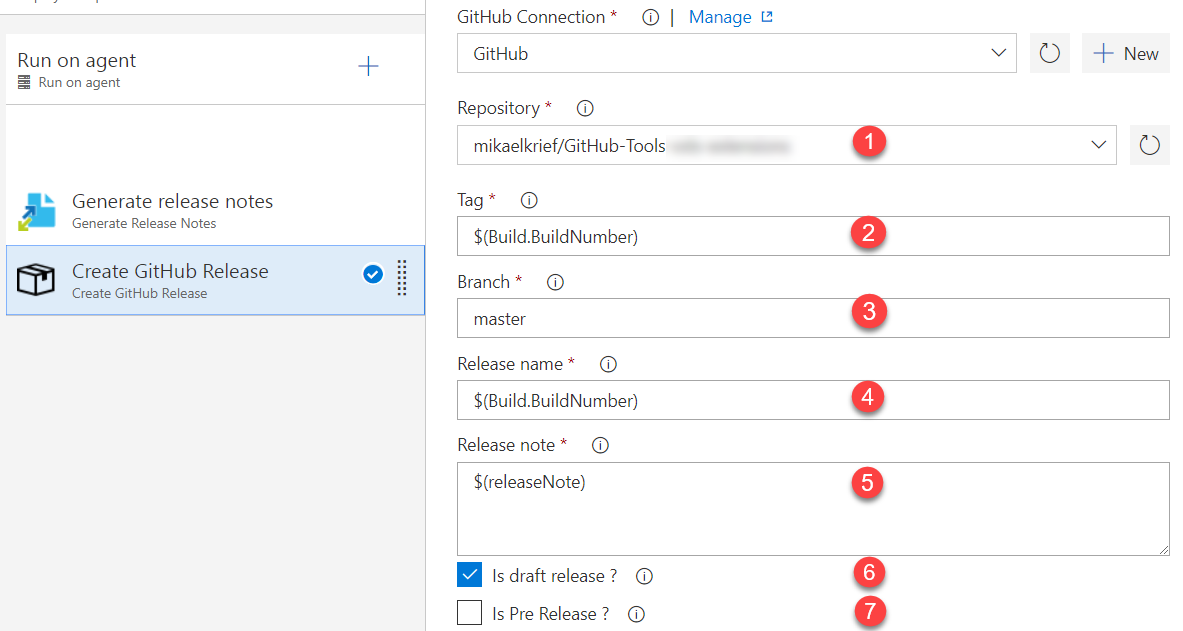
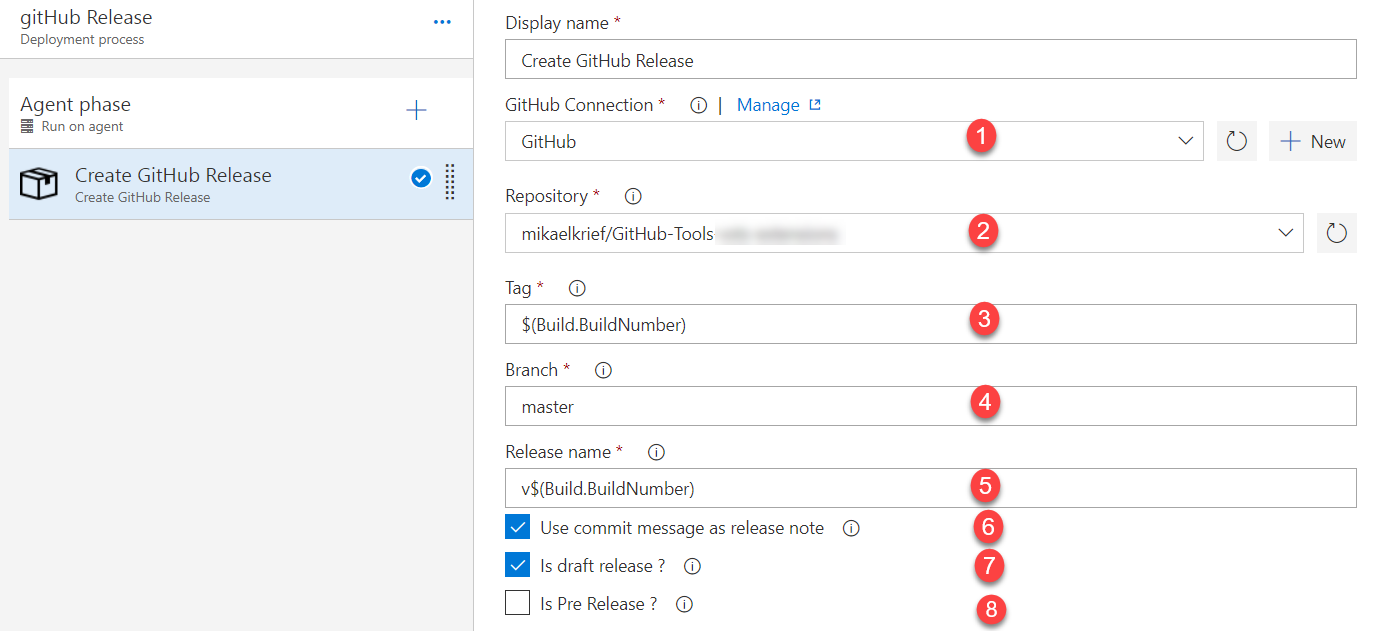
update oveview and screen

diff --git a/GitHubTasks/overview.md b/GitHubTasks/overview.md
@@ -24,7 +24,7 @@ The parameters of the task are:
  - the tag
  - the branch
  - the release name
- - the release note
+ - use the commit message or custom release note
  - indicate if it's draft release
  - indicate if it's pre release
  
